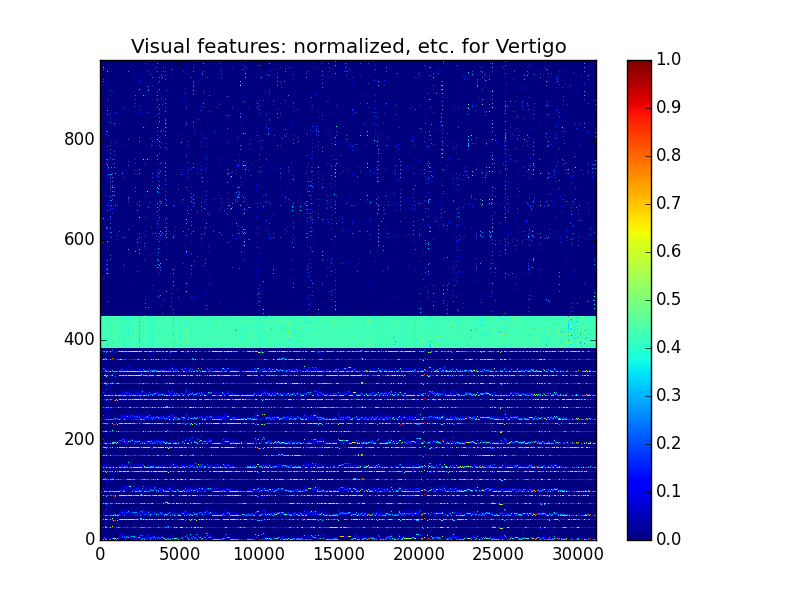
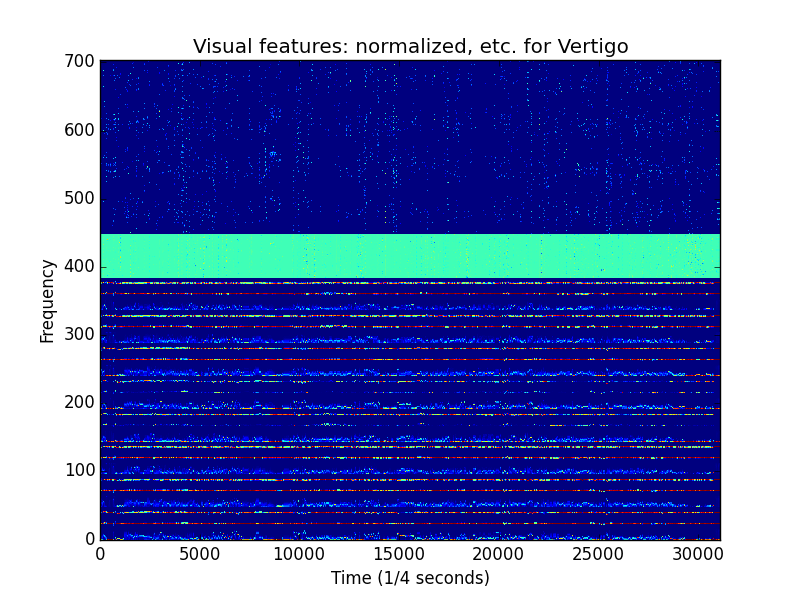
Updated example 4 mainly with better graphics..

diff --git a/examples/example_four_distributions/action_plotting_stats.py b/examples/example_four_distributions/action_plotting_stats.py
@@ -1,12 +1,6 @@
 #  Example of plotting a joint feature space of three normalized/standardized visual features.
 
 from action.suite import *
-import numpy as np
-import matplotlib.pyplot as plt
-
-# idx = np.arange(48)
-# barwidth = 0.5
-# barwidth2 = 0.75
 
 cfl_vert = ColorFeaturesLAB('Vertigo')
 cfl_nbr = ColorFeaturesLAB('No_Blood_Relation')
@@ -39,11 +33,12 @@ video_vert_X = np.c_[cfl_vert_X, pcorr_vert_X, oflow_vert_X]
 video_nbr_X = np.c_[cfl_nbr_X, pcorr_nbr_X, oflow_nbr_X]
 
 
-imagesc(video_vert_X.T, title_string='Visual features: normalized, etc. for Vertigo')
-imagesc(video_nbr_X.T, title_string='Visual features: normalized, etc. for No Blood Relation')
 
-imagesc(video_vert_X[:1000,:].T, title_string='Visual features: normalized, etc. for Vertigo - first 1000 frames')
-imagesc(video_nbr_X[:1000,:].T, title_string='Visual features: normalized, etc. for No Blood Relation - first 1000 frames')
+imagesc(video_vert_X.T, title_string='Visual features: normalized, etc. for Vertigo', x_lbl='Time (1/4 seconds)', y_lbl='Frequency')
+imagesc(video_nbr_X.T, title_string='Visual features: normalized, etc. for No Blood Relation', x_lbl='Time (1/4 seconds)', y_lbl='Frequency')
+
+imagesc(video_vert_X[:1000,:].T, title_string='Visual features for Vertigo - first 1000 frames', x_lbl='Time (1/4 seconds)', y_lbl='Frequency')
+imagesc(video_nbr_X[:1000,:].T, title_string='Visual features for No Blood Relation - first 1000 frames', x_lbl='Time (1/4 seconds)', y_lbl='Visual Features')
 
 
 data_col_means = np.mean(video_vert_X, axis=0)

diff --git a/action/spdocs/example_four_distributions.rst b/action/spdocs/example_four_distributions.rst
@@ -15,8 +15,6 @@ We can view the raw data from our three video features. First we normalize and s
 .. code-block:: python
 
 	from action.suite import *
-	import numpy as np
-	import matplotlib.pyplot as plt
 
 	# idx = np.arange(48)
 	# barwidth = 0.5
@@ -38,8 +36,8 @@ We can view the raw data from our three video features. First we normalize and s
 	cfl_nbr_X = cfl_nbr.middle_band_color_features_for_segment(fullseg_nbr)
 	pcorr_vert_X = pcorr_vert.middle_band_phasecorr_features_for_segment(fullseg_vert)
 	pcorr_nbr_X = pcorr_nbr.middle_band_phasecorr_features_for_segment(fullseg_nbr)
-	oflow_vert_X = oflow_vert.opticalflow_for_segment_with_stride(fullseg_vert)
-	oflow_nbr_X = oflow_nbr.opticalflow_for_segment_with_stride(fullseg_nbr)
+	oflow_vert_X = oflow_vert.middle_band_opticalflow_features_for_segment(fullseg_vert)
+	oflow_nbr_X = oflow_nbr.middle_band_opticalflow_features_for_segment(fullseg_nbr)
 
 
 	cfl_vert_X = ad.normalize_data(cfl_vert_X)
@@ -49,21 +47,29 @@ We can view the raw data from our three video features. First we normalize and s
 	oflow_vert_X = ad.normalize_data(np.power(oflow_vert_X, 0.2))
 	oflow_nbr_X = ad.normalize_data(np.power(oflow_nbr_X, 0.2))
 
-	video_vert_X = np.c_[cfl_vert_X, pcorr_vert_X, oflow_vert_X]
-	video_nbr_X = np.c_[cfl_nbr_X, pcorr_nbr_X, oflow_nbr_X]
+	min_time_vert = min([feat.shape[0] for feat in [cfl_vert_X, pcorr_vert_X, oflow_vert_X]])
+	min_time_nbr = min([feat.shape[0] for feat in [cfl_nbr_X, pcorr_nbr_X, oflow_nbr_X]])
+
+	print min_time_vert
+	print min_time_nbr
+
+	video_vert_X = np.c_[cfl_vert_X[:min_time_vert,:], pcorr_vert_X[:min_time_vert,:], oflow_vert_X[:min_time_vert,:]]
+	video_nbr_X = np.c_[cfl_nbr_X[:min_time_nbr,:], pcorr_nbr_X[:min_time_nbr,:], oflow_nbr_X[:min_time_nbr,:]]
 
 
-	imagesc(video_vert_X.T, title_string='Visual features: normalized, etc. for Vertigo')
-	imagesc(video_nbr_X.T, title_string='Visual features: normalized, etc. for No Blood Relation')
+	imagesc(video_vert_X.T, ttl='Visual features: normalized, etc. for Vertigo', x_lbl='Time (1/4 seconds)', y_lbl='Frequency')
+	imagesc(video_nbr_X.T, ttl='Visual features: normalized, etc. for No Blood Relation', x_lbl='Time (1/4 seconds)', y_lbl='Frequency')
 
-	imagesc(video_vert_X[:1000,:].T, title_string='Visual features: normalized, etc. for Vertigo - first 1000 frames')
-	imagesc(video_nbr_X[:1000,:].T, title_string='Visual features: normalized, etc. for No Blood Relation - first 1000 frames')
+	imagesc(video_vert_X[:1000,:].T, ttl='Visual features (normalized) for Vertigo - first 1000 frames', x_lbl='Time (1/4 seconds)', y_lbl='Frequency')
+	imagesc(video_nbr_X[:1000,:].T, ttl='Visual features (normalized) for No Blood Relation - first 1000 frames', x_lbl='Time (1/4 seconds)', y_lbl='Visual Features')
 
 
 .. image:: /images/action_ex4_combined_video_vert.png
 .. image:: /images/action_ex4_combined_video_nbr.png
 
-And zoomed in to the first 1000 time points:
+The visual features are (from origin, reading up) middle band colors, middle band phase correlation data, and optical flow middle band data.
+
+Features, zoomed in to the first 1000 time points:
 
 .. image:: /images/action_ex4_vert_1000.png
 .. image:: /images/action_ex4_nbr_1000.png
@@ -75,22 +81,22 @@ Instead of viewing raw metadata, we can plot distributions of their means and va
 
 .. code-block:: python
 
-	data_col_means = np.mean(video_vert_X, axis=0)
-	data_col_means2 = np.mean(video_nbr_X, axis=0)
-	data_col_vars = np.var(video_vert_X, axis=0)
-	data_col_vars2 = np.var(video_nbr_X, axis=0)
+data_col_means = np.mean(video_vert_X, axis=0)
+data_col_means2 = np.mean(video_nbr_X, axis=0)
+data_col_vars = np.var(video_vert_X, axis=0)
+data_col_vars2 = np.var(video_nbr_X, axis=0)
 
-	idx = np.arange(48)
-	barwidth = 0.5
-	barwidth2 = 0.75
+idx = np.arange(48)
+barwidth = 0.5
+barwidth2 = 0.75
+numfeatures = np.arange(video_vert_X.shape[1])
 
-	p1 = plt.bar(np.arange(960), data_col_vars2, barwidth2, color='y', bottom=data_col_means2)
-	p2 = plt.bar(np.arange(960), data_col_vars, barwidth, color='g', bottom=data_col_means)
-	plt.title('Video features means and variances per bin')
-	plt.legend( (p1[0], p2[0]), ('Vertigo', 'No Blood Relation') )
+p1 = plt.bar(numfeatures, data_col_vars2, barwidth2, color='y', bottom=data_col_means2)
+p2 = plt.bar(numfeatures, data_col_vars, barwidth, color='g', bottom=data_col_means)
+plt.title('Video features means and variances per bin')
+plt.legend( (p1[0], p2[0]), ('Vertigo', 'No Blood Relation') )
 	
 .. image:: /images/action_ex4_all_video_overlaps.png
-
 
 Zooming in, we can see that there is a lot of detail, but any hopes of saying (or seeing) anything about one film in particular are pretty remote: 
 
@@ -126,32 +132,33 @@ In the above example, you should be able to see that one is color and one is bla
 	powers = ad.normalize_data(powers)
 	powers = ad.meanmask_data(powers)
 
-	imagesc(mfccs.T, title_string='MFCCs - normalized - '+str(title))
-	imagesc(chromas.T, title_string='Chromas - normalized - '+str(title))
+	imagesc(mfccs.T, ttl='MFCCs - normalized - '+str(title), x_lbl='Time (1/4 seconds)', y_lbl='MFCC Coefficients')
+	imagesc(chromas.T, ttl='Chromas - normalized - '+str(title), x_lbl='Time (1/4 seconds)', y_lbl='Chromas (12 steps)')
 	plt.figure()
 	plt.plot(np.atleast_1d(powers))
 	plt.title('Normalized power values for whole film - '+str(title))
+	plt.xlabel('Time (1/4 seconds)')
+	plt.ylabel('Linear Power')
 
-.. image:: /images/action_ex4_powers_vert_plot.png
-.. image:: /images/action_ex4_mfccs_vert_normed.png
-.. image:: /images/action_ex4_chromas_vert_normed.png
+.. image:: /images/action_ex4_powers_vert_plot_zoom.png
+.. image:: /images/action_ex4_mfccs_vert_normed_zoom.png
+.. image:: /images/action_ex4_chromas_vert_normed_zoom.png
 
 .. code-block:: python
 
 
 	audio_vert_X =  np.c_[np.atleast_1d(powers), mfccs, chromas]
 
-	imagesc(audio_vert_X, title_string='Power/MFCC/Chromas - normalized - '+str(title))
+	imagesc(audio_vert_X.T, ttl='Power/MFCC/Chromas - normalized - '+str(title), x_lbl='Time (1/4) seconds', y_lbl='Audio feature bins')
 
 .. image:: /images/action_ex4_combined_audio_vert.png
 
 .. code-block:: python
 
 	min_length = min(audio_vert_X.shape[0], video_vert_X.shape[0])
-
 	all_vert_X = np.c_[video_vert_X[:min_length,:], audio_vert_X[:min_length,:]]
-	
-	imagesc(all_vert_X.T, title_string='Video/Audio Features - normalized - '+str(title))
+
+	imagesc(all_vert_X.T, ttl='Video/Audio Features - normalized - '+str(title), x_lbl='Time (1/4) seconds', y_lbl='Combined feature bins')
 	
 .. image:: /images/action_ex4_all_features_vert.png
 
